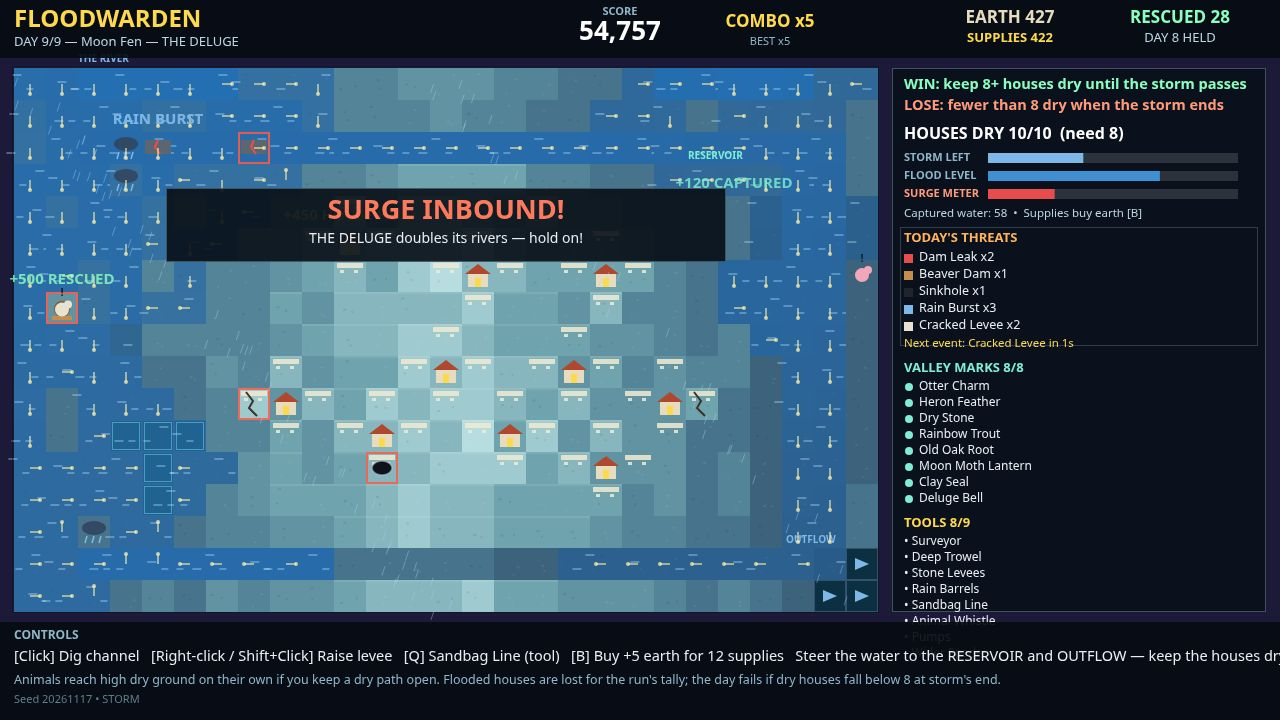
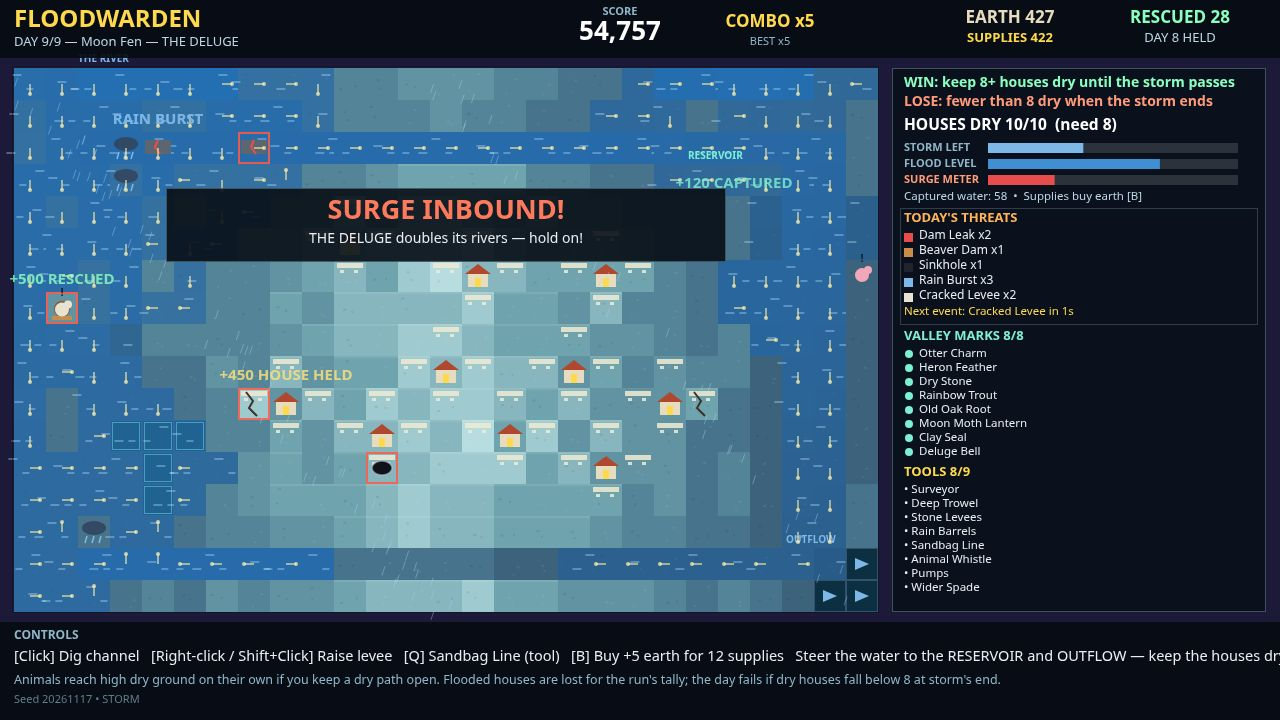
Fix HUD panel budget and title marks column
The right-hand HUD panel overflowed on Day 9 (8 marks + 8 tools + surge
bar pushed the last tool off the panel): rebudget the panel spacing,
give the threat box a dynamic height, and tighten mark/tool rows so the
fullest state fits. Also widen the title screen's marks description
column, shorten the Moon Moth Lantern line so it stays inside its
panel, move the cover scene's HOUSE HELD floater to a southern house so
the surge banner no longer covers it, and re-render all screenshots.

Changed region(s): [[0.6875, 0.0917, 0.9688, 0.8861], [0.1562, 0.4889, 0.2812, 0.55]]

diff --git a/game/src/data.js b/game/src/data.js
@@ -196,7 +196,7 @@ export const MARKS = [
   {
     id: 'mothlamp',
     name: 'Moon Moth Lantern',
-    line: 'The threat panel shows the next hazard event timer. Earned at 11 rescues.',
+    line: 'Threat panel shows the next hazard timer. Earned at 11 rescues.',
     earn: 'rescue',
   },
   {
